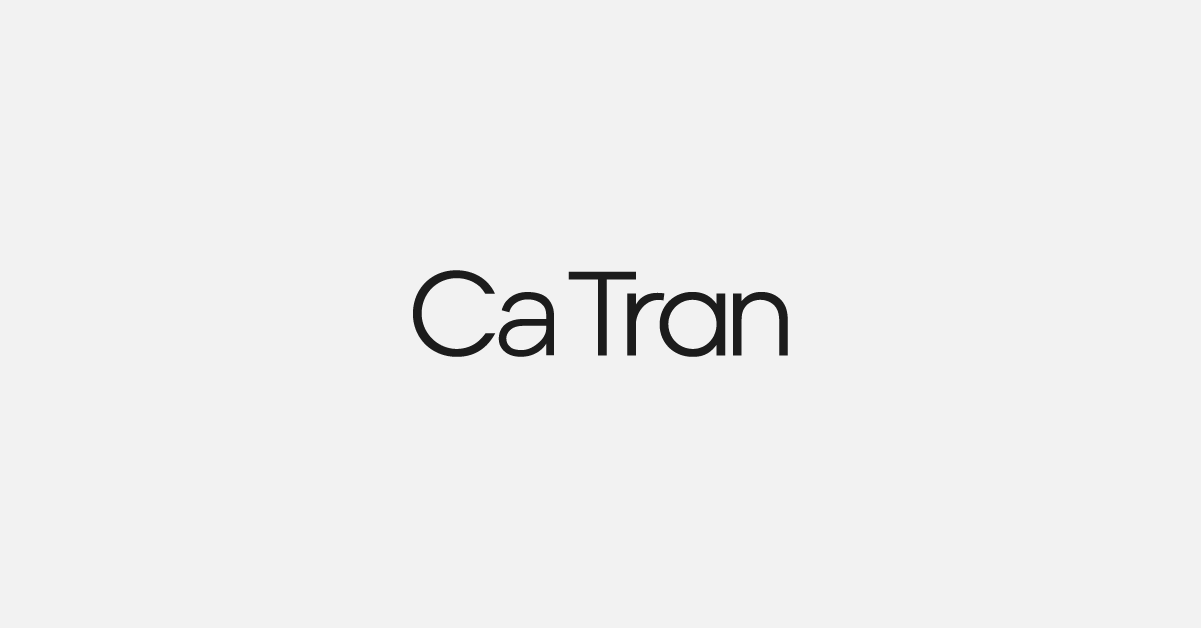
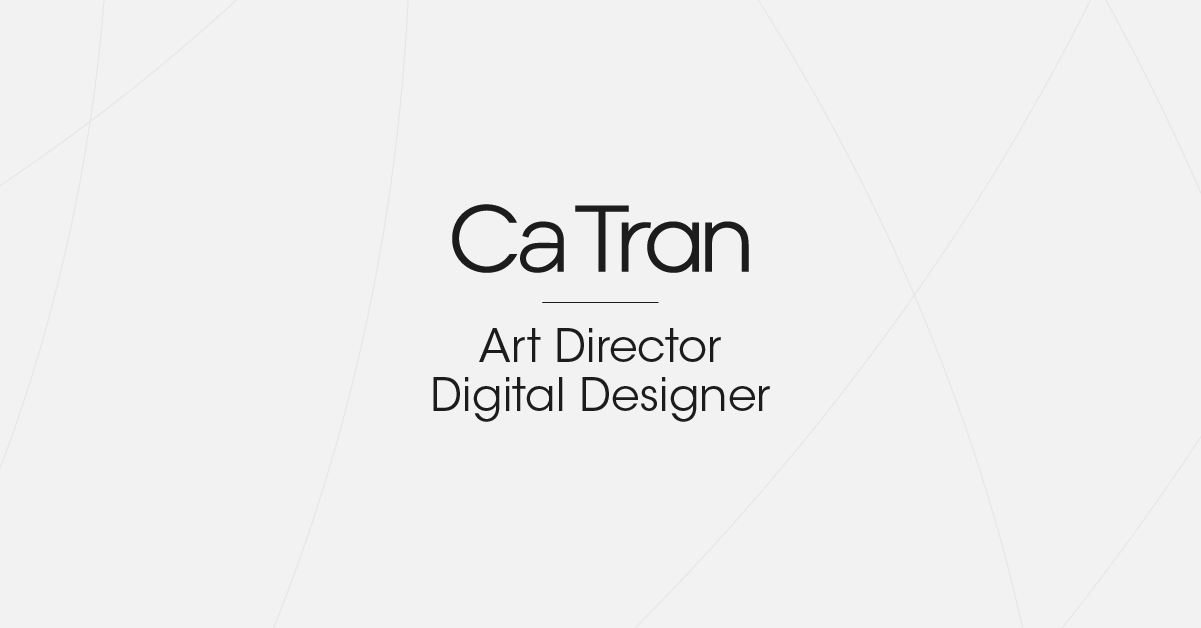
v1.04

Changed region(s): [[0.3389, 0.3025, 0.6778, 0.5748], [0.3389, 0.6051, 0.647, 0.6656]]

diff --git a/index.html b/index.html
@@ -9,7 +9,14 @@
       content="Ca Tran — Art Director & Digital Designer who creates brand identities and visual solutions, currently living and working in Saigon, Vietnam."
     />
     <!-- meta social -->
-    <meta property="og:title" content="Ca Tran" />
+    <meta
+      property="og:title"
+      content="Ca Tran — Art Director & Digital Designer"
+    />
+    <meta
+      property="og:description"
+      content="Ca Tran — Art Director & Digital Designer who creates brand identities and visual solutions, currently living and working in Saigon, Vietnam."
+    />
     <meta property="og:type" content="website" />
     <meta property="og:url" content="https://ca-tran.com" />
     <meta property="og:image" content="images/og image/catran-og-image.png" />

diff --git a/style.css b/style.css
@@ -527,9 +527,12 @@ TABLET - SMALL DESKTOP
         margin-right: 60px;
     }
 
-    .bg-img {
+    /* .bg-img {
+        background-image: url(images/svg/svg-bg.svg);
+        background-repeat: no-repeat;
         background-size: cover;
-    }
+        background-attachment: fixed;
+    } */
 
     .inner-grid {
         display: grid;
@@ -605,7 +608,10 @@ WIDE DESKTOP
     }
 
     .bg-img {
+        background-image: url(images/svg/svg-bg.svg);
+        background-repeat: no-repeat;
         background-size: cover;
+        background-attachment: fixed;
     }
 
     body {
